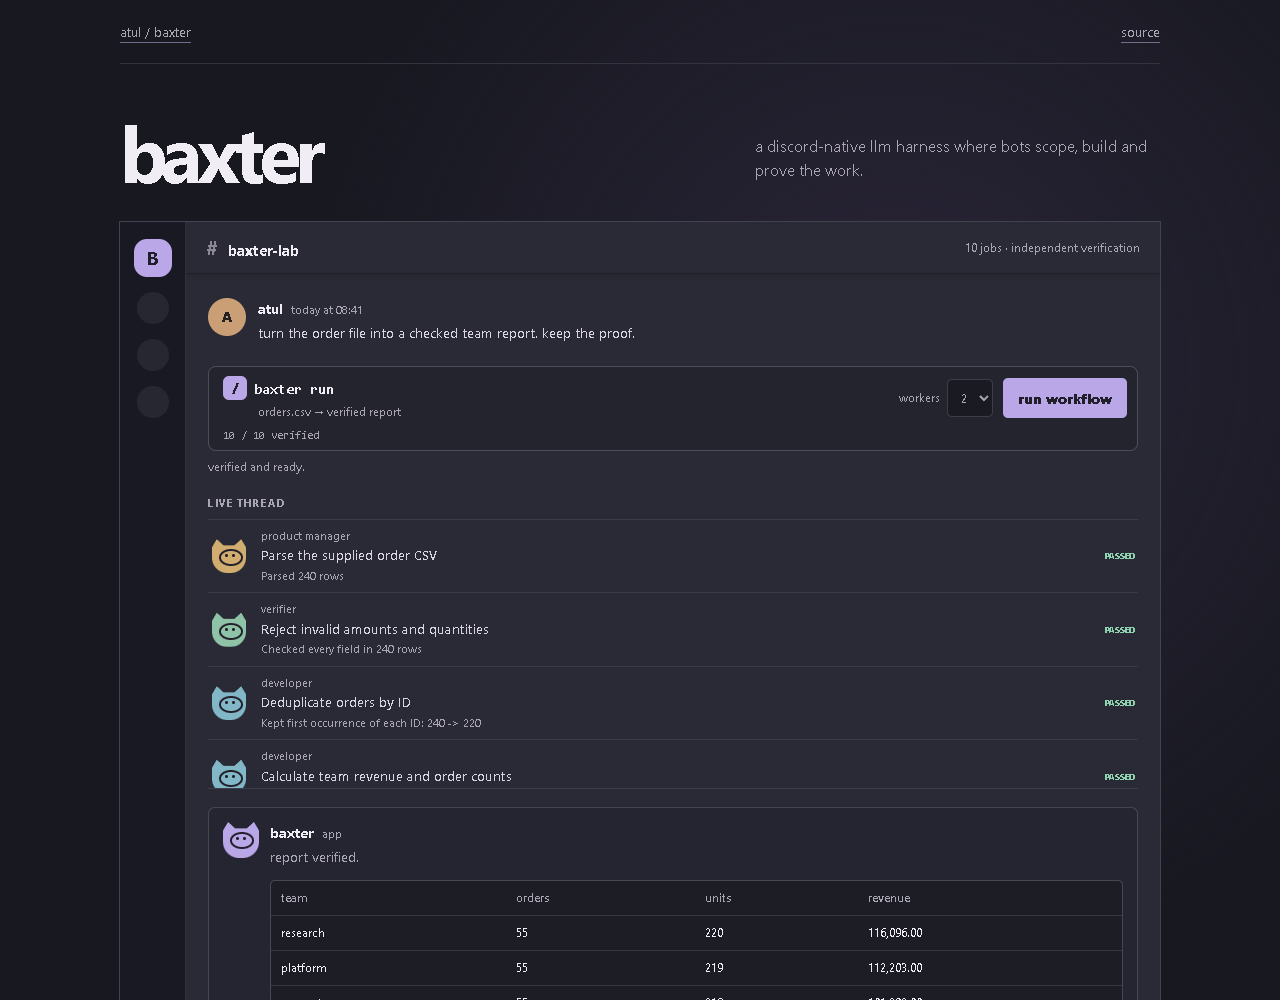
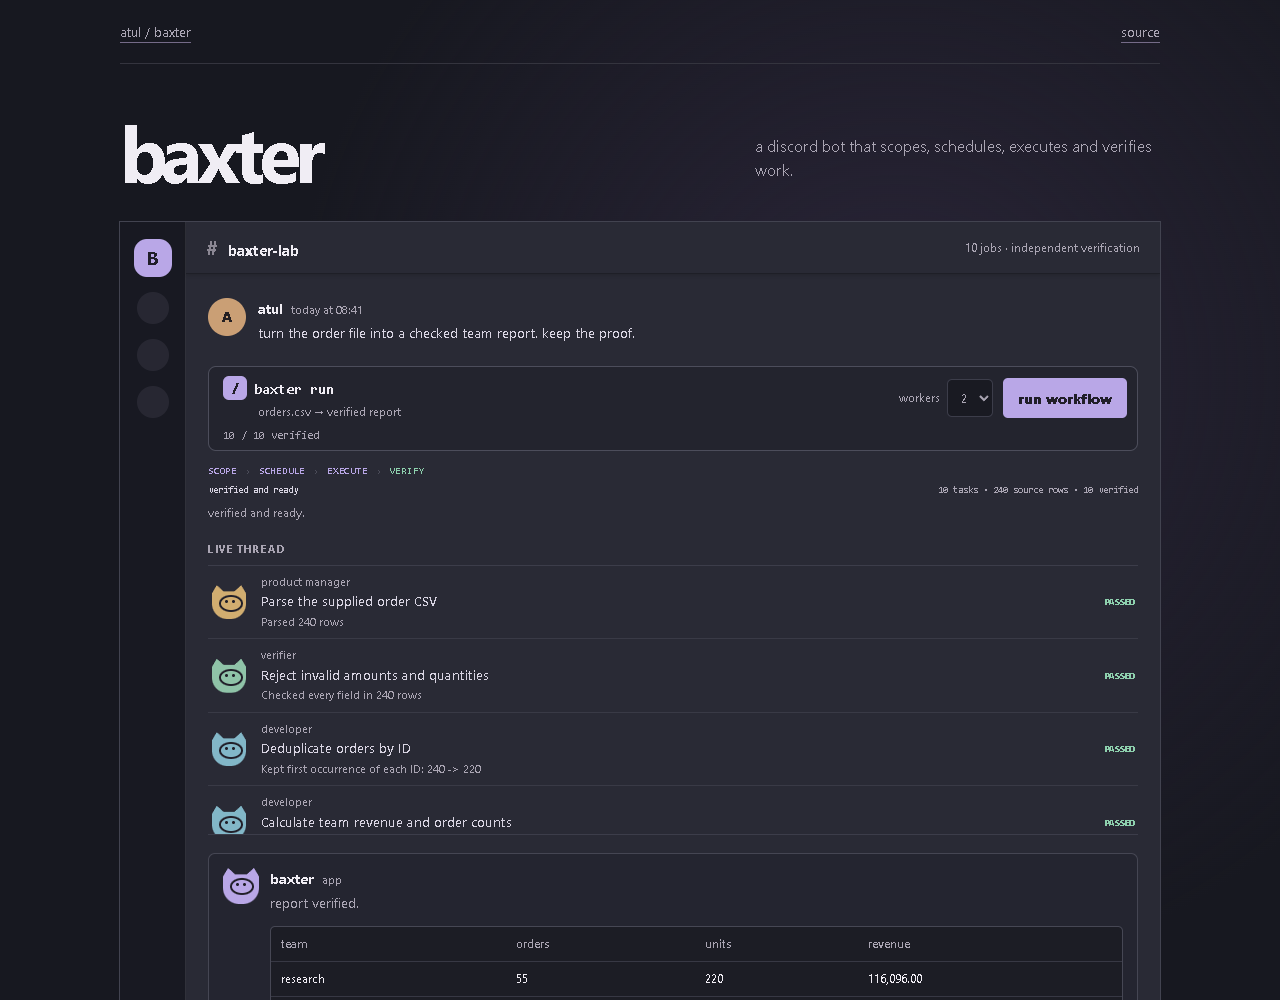
Refine workflow state in Baxter demo

diff --git a/examples/portfolio/style.css b/examples/portfolio/style.css
@@ -2,8 +2,9 @@
 .discord-shell{display:grid;grid-template-columns:66px minmax(0,1fr);overflow:hidden;background:var(--shell);box-shadow:0 0 0 1px #424350}.server-rail{display:flex;flex-direction:column;align-items:center;gap:15px;padding-top:17px;background:var(--rail);border-right:1px solid #30313a}.server-rail b,.server-rail i{width:38px;height:38px;display:grid;place-items:center;border-radius:50%;background:#30313c}.server-rail b{border-radius:13px;background:var(--lavender);color:#201e29;font-size:18px}.server-rail i{width:32px;height:32px;opacity:.6}.channel{min-width:0;background:var(--channel)}.channel-head{min-height:52px;display:flex;align-items:center;justify-content:space-between;gap:20px;padding:8px 20px;border-bottom:1px solid #1e1f27;box-shadow:0 2px 4px #1113}.channel-head strong{font-size:15px}.channel-head strong span{margin-right:6px;color:#8b8793;font-size:21px}.channel-head small{color:var(--muted)}
 .request-message{display:flex;gap:12px;padding:24px 22px 13px}.atul-avatar,.baxter-avatar,.avatar{position:relative;flex:none;width:38px;height:38px;display:grid;place-items:center;border-radius:50%;background:#ca9f75;color:#241f22;font-weight:800}.request-message strong,.report-intro strong{margin-right:8px}.request-message time,.report-intro small{color:var(--muted);font-size:11px}.request-message p{margin:3px 0 0;color:var(--paper)}
 .run-bar{display:grid;grid-template-columns:minmax(0,1fr) auto auto;align-items:center;gap:10px;margin:10px 22px 5px;padding:9px 10px 9px 14px;border:1px solid #4c4d5b;border-radius:8px;background:var(--panel)}.slash-command{min-width:0}.slash-command>span{display:inline-grid;width:24px;height:24px;place-items:center;margin-right:7px;border-radius:6px;background:var(--lavender);color:#211f29;font-weight:900}.slash-command strong{font-family:ui-monospace,Consolas,monospace}.slash-command small{display:block;margin:3px 0 0 35px;color:var(--muted)}.run-bar label{display:flex;align-items:center;gap:7px;color:var(--muted);font-size:12px}.run-bar select{min-height:38px;padding:6px 9px;border:1px solid var(--line);border-radius:5px;background:#191a22}.run-bar button{min-height:40px;padding:8px 15px;border:0;border-radius:5px;background:var(--lavender);color:#211f29;font-weight:800;transition:filter 120ms ease-out,transform 120ms ease-out}.run-bar button:hover{filter:brightness(1.08)}.run-bar button:active{transform:scale(.96)}.run-bar>span{grid-column:1/-1;color:var(--muted);font:11px/1 ui-monospace,Consolas,monospace}#status{min-height:20px;margin:7px 22px 0;color:var(--muted);font-size:12px}
+.workflow-map{display:flex;align-items:center;gap:8px;margin:15px 22px 0;color:#706e7b;font:10px/1 ui-monospace,Consolas,monospace;letter-spacing:.08em;text-transform:uppercase}.workflow-map i{font-style:normal;color:#4b4c59}.workflow-map span{transition:color 180ms ease-out}.workflow-map span[data-active="true"]{color:var(--lavender)}.workflow-map span:last-child[data-active="true"]{color:var(--good)}.run-ledger{display:flex;justify-content:space-between;gap:12px;margin:8px 22px 0;color:var(--muted);font:10px/1.3 ui-monospace,Consolas,monospace}.run-ledger #run-phase{color:var(--paper)}
 .queue{padding:4px 22px 0}.queue h2{margin:13px 0 7px;color:var(--muted);font-size:11px;font-weight:700;text-transform:uppercase;letter-spacing:.08em}#tasks{max-height:270px;overflow-y:auto;border-block:1px solid var(--line);scrollbar-color:#626071 transparent;scrollbar-width:thin}.task{display:grid;grid-template-columns:38px minmax(0,1fr) auto;gap:11px;align-items:center;min-height:56px;padding:8px 4px;border-bottom:1px solid #393a46;transition:background-color 140ms ease-out}.task[data-state="running"]{background:#302e3d}.task .avatar{width:34px;height:34px;background:#706482}.task .avatar,.baxter-avatar{border-radius:0 0 45% 45%;clip-path:polygon(0 24%,14% 0,34% 18%,66% 18%,86% 0,100% 24%,100% 100%,0 100%)}.task .avatar:before,.baxter-avatar:before{content:"";position:absolute;top:10px;left:7px;width:20px;height:13px;border:2px solid #211f29;border-radius:50%}.task .avatar:after,.baxter-avatar:after{content:"";position:absolute;top:15px;left:13px;width:3px;height:3px;border-radius:50%;background:#211f29;box-shadow:7px 0 #211f29}.task .avatar.product-manager{background:#d1ad70}.task .avatar.developer{background:#82b7c8}.task .avatar.verifier{background:#8fc3a8}.task .avatar.baxter{background:var(--lavender)}.task .role{display:block;color:var(--muted);font-size:11px;text-transform:lowercase}.task h3{margin:1px 0 0;color:var(--paper);font-size:13px;font-weight:550}.task p{margin:3px 0 0;color:var(--muted);font-size:11px}.state{font:700 10px/1 ui-monospace,Consolas,monospace;text-transform:uppercase;color:var(--muted)}.state.running{color:var(--lavender);animation:blink .8s step-end infinite}.state.passed{color:var(--good)}.state.failed,.state.blocked{color:var(--bad)}@keyframes blink{50%{opacity:.35}}
 .report-preview{margin:18px 22px 22px;padding:14px;border:1px solid #454653;border-radius:7px;background:#242530}.report-intro{display:flex;gap:11px;align-items:flex-start}.baxter-avatar{width:36px;height:36px;background:var(--lavender)}.report-intro p{margin:3px 0 0;color:var(--muted)}.report-preview>div+div{margin:13px 0 0 47px;overflow:auto;border:1px solid #464754;border-radius:5px;background:#1c1d25}.report-preview table{width:100%;border-collapse:collapse;font-size:12px}.report-preview th,.report-preview td{text-align:left;padding:8px 10px;border-bottom:1px solid #373844}.report-preview th{color:var(--muted);font-weight:600}.report-preview tbody tr:last-child td{border-bottom:0}
 .channel-tools{border-top:1px solid #1e1f27;background:#24252f;padding:8px 22px 12px}.channel-tools details{border-bottom:1px solid var(--line)}summary{padding:14px 0;color:var(--lavender);cursor:pointer;font-weight:650}.channel-tools button,.channel-tools select{min-height:38px;padding:7px 10px;border:1px solid var(--line);border-radius:4px;background:#1d1e27}.channel-tools textarea{width:100%;margin:10px 0;padding:10px;border:1px solid var(--line);border-radius:4px;background:#191a22}.tabs{display:flex;gap:6px}.tabs button[aria-pressed=true]{color:var(--lavender);border-color:var(--lavender)}#receipts{display:grid;grid-template-columns:1fr 1fr;gap:8px;margin:10px 0}.receipt{padding:10px;border:1px solid var(--line);font-size:11px}.receipt p{margin:5px 0;color:var(--muted)}
-@media(max-width:700px){header,main{width:calc(100% - 28px)}header{height:58px}main{padding:40px 0}.hero{display:block}.hero h1{font-size:58px}.hero>p{margin-top:22px}.discord-shell{grid-template-columns:1fr}.server-rail{display:none}.channel-head{padding-inline:14px}.channel-head small{display:none}.request-message,.queue{padding-inline:14px}.run-bar{grid-template-columns:1fr auto;margin-inline:14px}.slash-command{grid-column:1/-1}.run-bar button{grid-column:1/-1}.run-bar>span{grid-column:1/-1}#status{margin-inline:14px}.task{grid-template-columns:34px minmax(0,1fr) auto}.task .avatar{width:31px;height:31px}.task h3{font-size:12px}.report-preview{margin-inline:14px}.report-preview>div+div{margin-left:0}.channel-tools{padding-inline:14px}#receipts{grid-template-columns:1fr}}
+@media(max-width:700px){header,main{width:calc(100% - 28px)}header{height:58px}main{padding:40px 0}.hero{display:block}.hero h1{font-size:58px}.hero>p{margin-top:22px}.discord-shell{grid-template-columns:1fr}.server-rail{display:none}.channel-head{padding-inline:14px}.channel-head small{display:none}.request-message,.queue{padding-inline:14px}.run-bar{grid-template-columns:1fr auto;margin-inline:14px}.slash-command{grid-column:1/-1}.run-bar button{grid-column:1/-1}.run-bar>span{grid-column:1/-1}.workflow-map,.run-ledger,#status{margin-inline:14px}.workflow-map{gap:5px;font-size:9px}.run-ledger{display:block}.run-ledger #run-count{display:block;margin-top:4px}.task{grid-template-columns:34px minmax(0,1fr) auto}.task .avatar{width:31px;height:31px}.task h3{font-size:12px}.report-preview{margin-inline:14px}.report-preview>div+div{margin-left:0}.channel-tools{padding-inline:14px}#receipts{grid-template-columns:1fr}}
 @media(prefers-reduced-motion:reduce){*{animation:none!important;transition:none!important}}

diff --git a/examples/portfolio/index.html b/examples/portfolio/index.html
@@ -14,7 +14,7 @@
 <main>
     <section class="hero" aria-labelledby="page-title">
         <h1 id="page-title">baxter</h1>
-        <p>a discord-native llm harness where bots scope, build and prove the work.</p>
+        <p>a discord bot that scopes, schedules, executes and verifies work.</p>
     </section>
 
     <section class="discord-shell" aria-label="Baxter workflow channel">
@@ -33,6 +33,13 @@
                 <button id="run">run workflow</button>
                 <span id="progress"></span>
             </section>
+            <div class="workflow-map" aria-label="Baxter workflow stages">
+                <span data-beat="scope">scope</span><i aria-hidden="true">›</i>
+                <span data-beat="schedule">schedule</span><i aria-hidden="true">›</i>
+                <span data-beat="execute">execute</span><i aria-hidden="true">›</i>
+                <span data-beat="verify">verify</span>
+            </div>
+            <div class="run-ledger"><span id="run-phase">ready to dispatch</span><span id="run-count"></span></div>
             <p id="status" role="status">loading queue…</p>
 
             <section class="queue" aria-labelledby="queue-title"><h2 id="queue-title">live thread</h2><div id="tasks"></div></section>

diff --git a/tools/browser_audit.py b/tools/browser_audit.py
@@ -17,9 +17,13 @@ try:
         errors=[];page.on('pageerror',lambda e:errors.append(str(e)))
         page.goto(os.environ.get('AUDIT_URL',f'http://127.0.0.1:{server.server_port}'),wait_until='networkidle')
         page.wait_for_function('window.__baxter?.ready')
+        assert page.locator('[data-beat="scope"]').get_attribute('data-active') == 'true'
+        assert '10 tasks' in page.locator('#run-count').inner_text()
         page.locator('#run').click()
         page.wait_for_function('!__baxter.running && __baxter.receipts===10')
         assert page.evaluate('Object.values(__baxter.states).every(s=>s==="passed")')
+        assert page.locator('[data-beat="verify"]').get_attribute('data-active') == 'true'
+        assert 'verified and ready' in page.locator('#run-phase').inner_text()
         assert 'Team order report' in page.locator('#content').input_value()
         page.locator('details summary').first.click()
         with page.expect_download() as dl:page.locator('#export').click()
